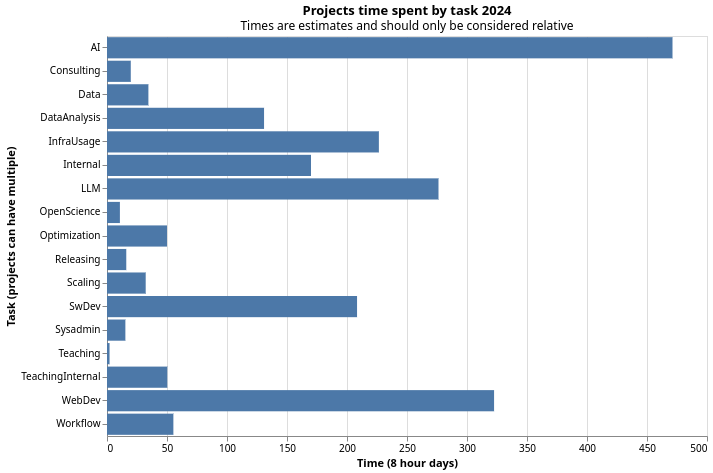
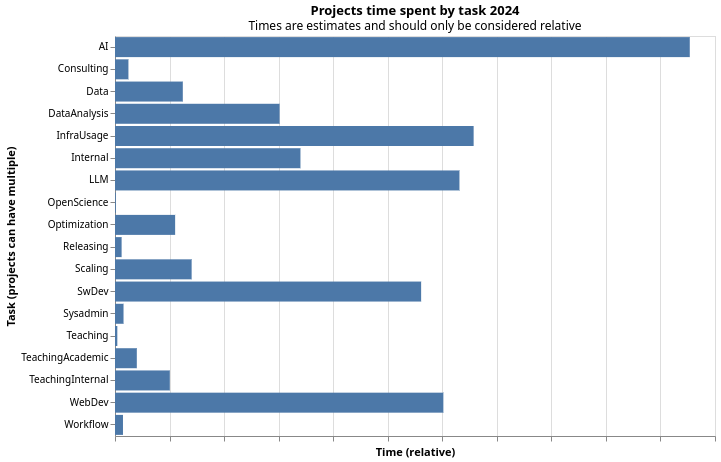
Update RSE reports

diff --git a/rse/reports/2024.rst b/rse/reports/2024.rst
@@ -132,18 +132,32 @@ require a separate time tracking system.
 * Distinct contact people 2024: 69 supervisors, 77 contacts
 * Number of distinct schools: 5 (all except CHEM)
 
+.. admonition:: Note on data accuracy
+
+   We focus on helping everyone who needs help (via lots of small
+   projects), and unfortunately that means we don't have perfect
+   stats.  What we record as a "project" has also changed over time.
+   The figures below record the general relative demand for services,
+   but are not 100% accurate.  To record general demand, it includes
+   requested projects that have not been realized (no response,
+   unfunded grants, waiting to start, etc.).
+
 .. figure:: 2024-projects-per-year.png
    :alt: Projects per year chart, slightly increasing.
 
    Projects per year.  The data is interesting, but since it tracks
-   "RSE project issues created" and the standard for what should be an
-   issue changes over time, it shouldn't be relied on too much.
+   "RSE project issues created" it doesn't tell the whole story.  We
+   used to make issues at a much lower threshold (small things we
+   did), now we tend to make only issues for bigger things (the garage
+   diary tracks small work).  So, this shouldn't be relied on too
+   much.
 
 .. figure:: 2024-projects-contacts.png
    :alt: Listed contacts for various projects.
 
    We see that the general trend for number of contacts is
-   increasing.  This data isn't completely accurate, though.
+   increasing.  This data isn't completely accurate, since over time
+   we hive tried harder to record better information.
 
 .. figure:: 2024-projects-per-school.png
    :alt: A bar graph split by year and by school, we see that SCI is
@@ -152,7 +166,8 @@ require a separate time tracking system.
 
    We see that the School of Science continues to be the primary
    customer base, as is expected since it's the only one providing
-   basic funding.
+   basic funding and the one that has had the most outreach for new
+   projects.
 
 .. figure:: 2024-projects-time-per-school.png
    :alt: Bar graph with time spent for unit, the highest is 'Sci' with
@@ -174,16 +189,18 @@ require a separate time tracking system.
    :alt: Bar graph of project time spent by task, with the largest
 	 categories the same as above.
 
-   Like above, but with the time distribution.  Again, the absolute
-   values are not accurate but this shows the relative distribution.
+   Like above, but with the time distribution.  No absolute values are
+   given, since it's not accurate enough to be relevant.
 
 .. figure:: 2024-projects-size-by-year.png
    :alt: Bar graph showing project size (G, S, M, L) that as years
 	 progress, there are more and more large projects.
 
    We see that we are shifting more towards larger projects.  This is
-   a real effect, but also "don't bother recording small and garage
-   projects" is a big part of it, too.
+   a real effect, but also an artifact of how we record things.  The
+   garage diary now records most of the garage and some of the small
+   projects.  Garage: Hours or less.  Small: days or less.  Medium:
+   weeks or less.  Large: Month or more.
 
 .. figure:: 2024-projects-wordcloud.png
    :alt: Would cloud of project summaries
